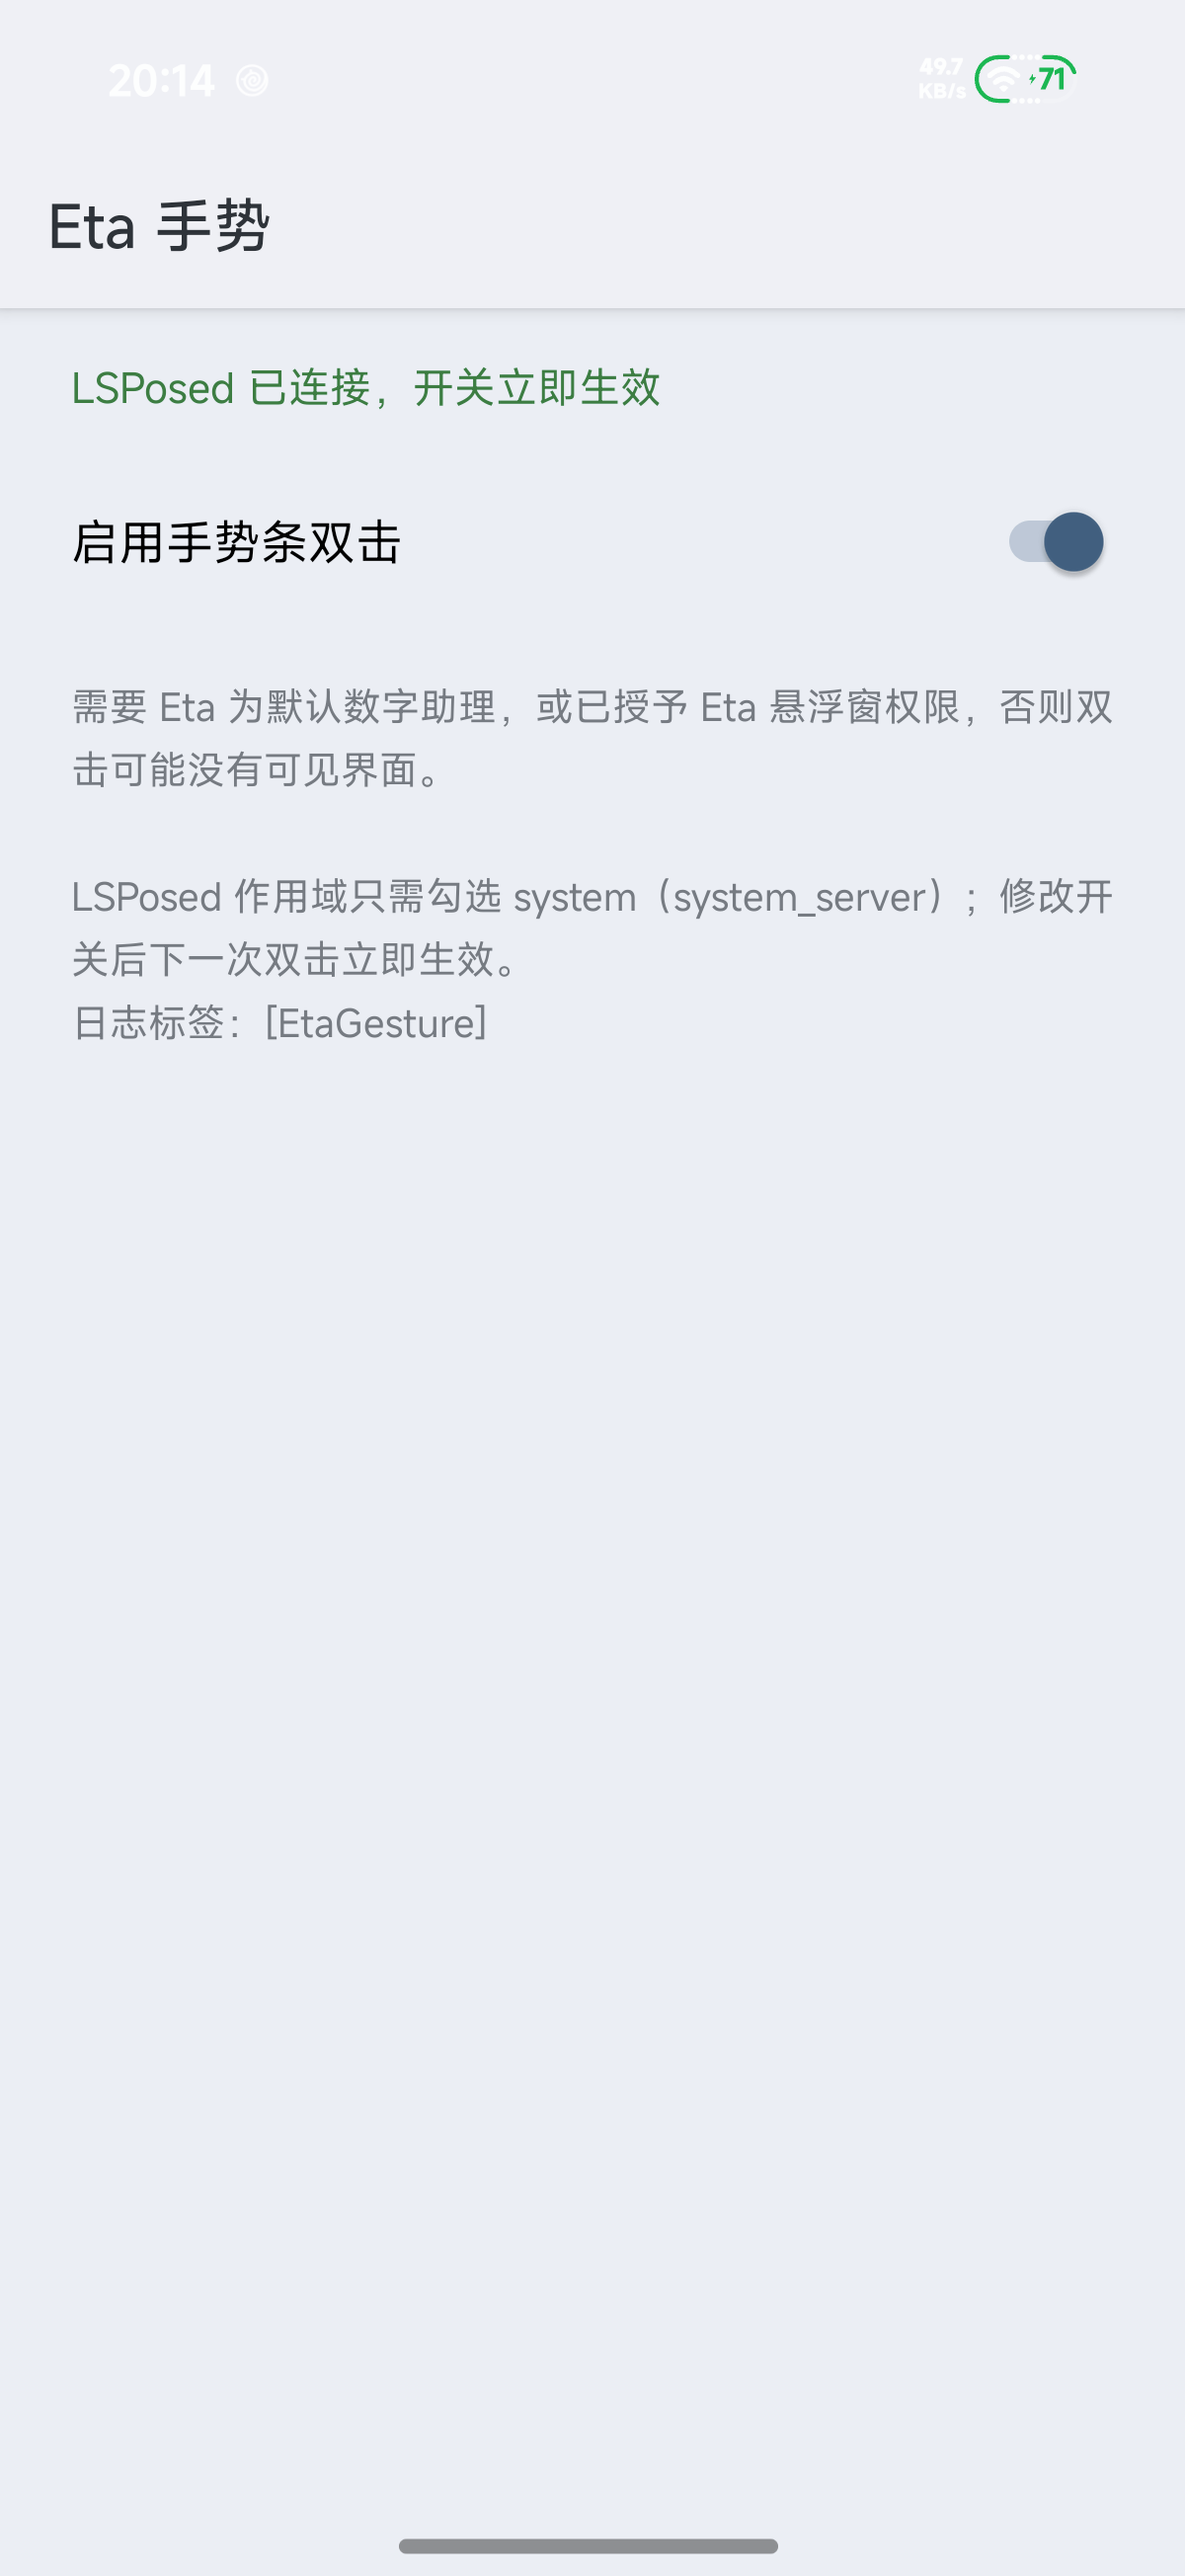
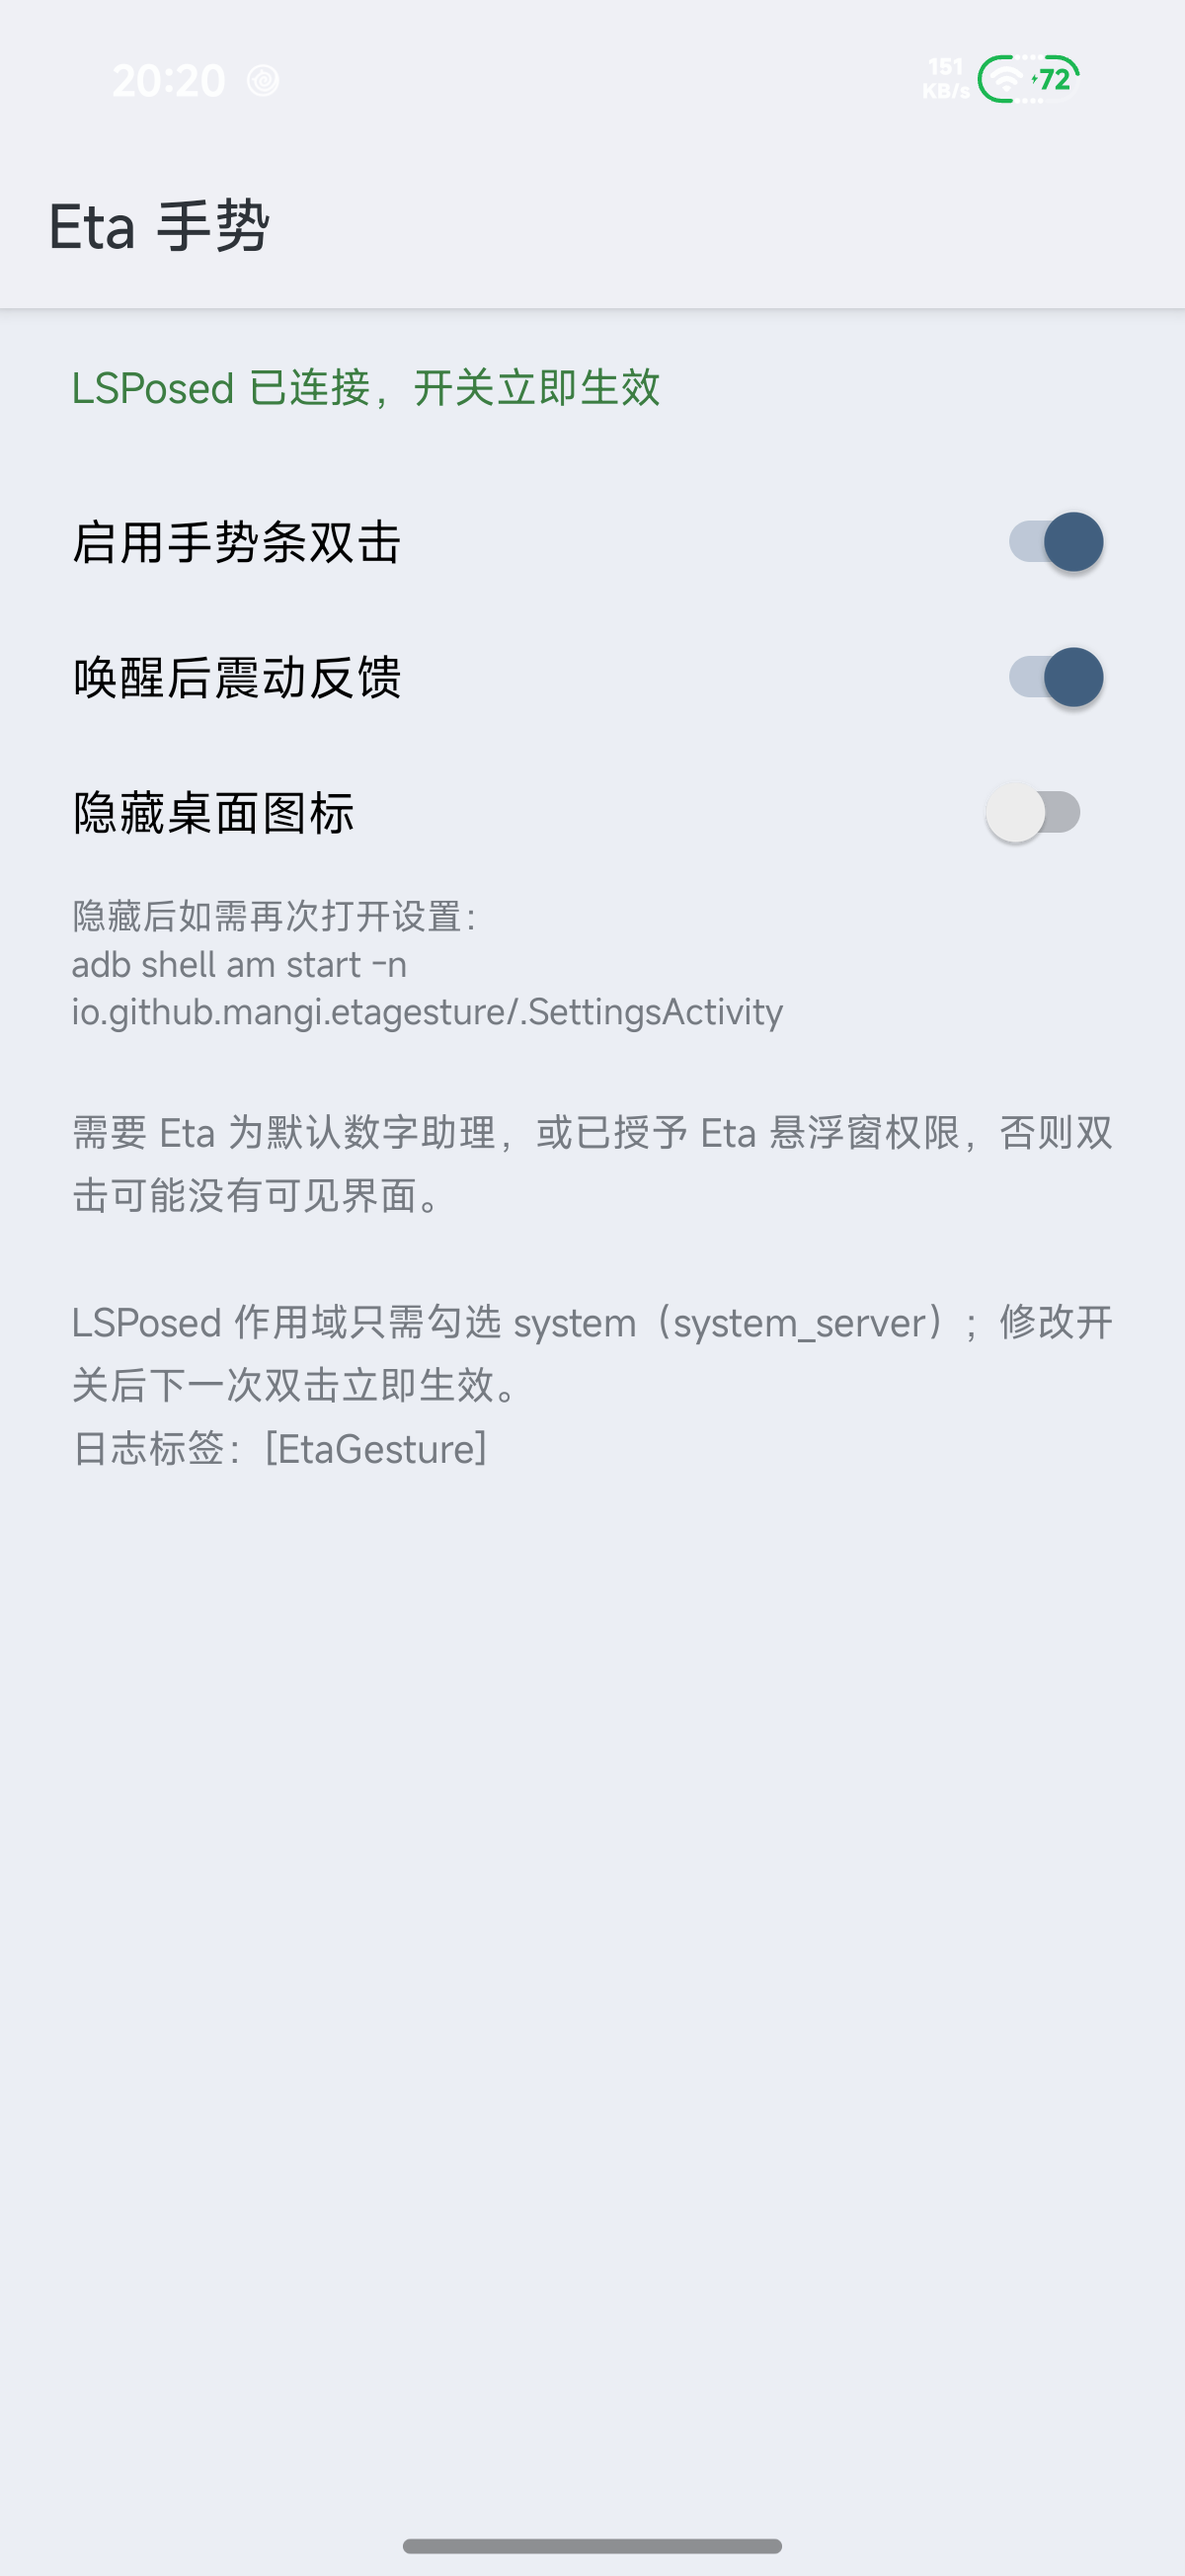
feat: 隐藏桌面图标与唤醒后震动反馈

diff --git a/app/src/main/java/io/github/mangi/etagesture/SettingsActivity.java b/app/src/main/java/io/github/mangi/etagesture/SettingsActivity.java
@@ -1,7 +1,10 @@
 package io.github.mangi.etagesture;
 
 import android.app.Activity;
+import android.app.AlertDialog;
+import android.content.ComponentName;
 import android.content.SharedPreferences;
+import android.content.pm.PackageManager;
 import android.graphics.Typeface;
 import android.os.Bundle;
 import android.view.ViewGroup;
@@ -12,12 +15,18 @@ import android.widget.Toast;
 
 import io.github.libxposed.service.XposedService;
 
-/** 模块设置页：只负责开关，写入 RemotePreferences 后 Hook 进程实时读取。 */
+/** 模块设置页：手势开关、震动反馈与隐藏桌面图标。 */
 public final class SettingsActivity extends Activity implements App.ServiceListener {
     private static final int COLOR_CONNECTED = 0xFF1B7F3B;
     private static final int COLOR_DISCONNECTED = 0xFFB3261E;
 
+    private static final String UI_PREFS = "ui";
+    private static final String KEY_HIDE_ICON = "hide_icon";
+    private static final String ALIAS_SUFFIX = ".SettingsAlias";
+
     private Switch toggle;
+    private Switch vibrateToggle;
+    private Switch hideIconToggle;
     private TextView status;
     private SharedPreferences remotePreferences;
     private boolean updating;
@@ -26,6 +35,7 @@ public final class SettingsActivity extends Activity implements App.ServiceListe
     protected void onCreate(Bundle savedInstanceState) {
         super.onCreate(savedInstanceState);
         setContentView(buildContent());
+        applyStoredIconState();
     }
 
     @Override
@@ -68,12 +78,34 @@ public final class SettingsActivity extends Activity implements App.ServiceListe
         status.setPadding(0, 0, 0, dp(20));
         root.addView(status, matchWidth());
 
-        toggle = new Switch(this);
-        toggle.setText(R.string.settings_toggle);
-        toggle.setTextSize(16);
-        toggle.setPadding(0, dp(12), 0, dp(12));
-        toggle.setOnCheckedChangeListener((buttonView, isChecked) -> writeEnabled(isChecked));
-        root.addView(toggle, matchWidth());
+        toggle = addSwitch(root, R.string.settings_toggle, (buttonView, isChecked) -> {
+            if (!updating) {
+                writeRemoteBoolean(Constants.KEY_ENABLED, isChecked);
+            }
+        });
+
+        vibrateToggle = addSwitch(root, R.string.settings_vibrate, (buttonView, isChecked) -> {
+            if (!updating) {
+                writeRemoteBoolean(Constants.KEY_VIBRATE, isChecked);
+            }
+        });
+
+        hideIconToggle = addSwitch(root, R.string.settings_hide_icon, (buttonView, isChecked) -> {
+            if (updating) {
+                return;
+            }
+            if (isChecked) {
+                confirmHideIcon();
+            } else {
+                setIconHidden(false);
+            }
+        });
+
+        TextView hideHint = new TextView(this);
+        hideHint.setText(R.string.settings_hide_icon_summary);
+        hideHint.setTextSize(12);
+        hideHint.setPadding(0, dp(4), 0, 0);
+        root.addView(hideHint, matchWidth());
 
         TextView hint = new TextView(this);
         hint.setText(R.string.settings_hint);
@@ -83,6 +115,16 @@ public final class SettingsActivity extends Activity implements App.ServiceListe
         root.addView(hint, matchWidth());
 
         return root;
+    }
+
+    private Switch addSwitch(LinearLayout root, int textRes, CompoundButtonListener listener) {
+        Switch item = new Switch(this);
+        item.setText(textRes);
+        item.setTextSize(16);
+        item.setPadding(0, dp(12), 0, dp(12));
+        item.setOnCheckedChangeListener(listener::onCheckedChanged);
+        root.addView(item, matchWidth());
+        return item;
     }
 
     private void refresh() {
@@ -98,9 +140,12 @@ public final class SettingsActivity extends Activity implements App.ServiceListe
         remotePreferences = preferences;
         boolean connected = preferences != null;
         boolean enabled = !connected || preferences.getBoolean(Constants.KEY_ENABLED, true);
+        boolean vibrate = !connected || preferences.getBoolean(Constants.KEY_VIBRATE, true);
         updating = true;
         toggle.setEnabled(connected);
         toggle.setChecked(connected && enabled);
+        vibrateToggle.setEnabled(connected);
+        vibrateToggle.setChecked(connected && vibrate);
         updating = false;
         status.setText(connected
                 ? R.string.settings_status_connected
@@ -108,25 +153,79 @@ public final class SettingsActivity extends Activity implements App.ServiceListe
         status.setTextColor(connected ? COLOR_CONNECTED : COLOR_DISCONNECTED);
     }
 
-    private void writeEnabled(boolean enabled) {
-        if (updating) {
-            return;
-        }
+    private void writeRemoteBoolean(String key, boolean value) {
         SharedPreferences preferences = remotePreferences;
         if (preferences == null) {
             return;
         }
         boolean committed;
         try {
-            committed = preferences.edit()
-                    .putBoolean(Constants.KEY_ENABLED, enabled)
-                    .commit();
+            committed = preferences.edit().putBoolean(key, value).commit();
         } catch (Throwable throwable) {
             committed = false;
         }
         if (!committed) {
             Toast.makeText(this, R.string.settings_write_failed, Toast.LENGTH_SHORT).show();
             refresh();
+        }
+    }
+
+    private void confirmHideIcon() {
+        new AlertDialog.Builder(this)
+                .setTitle(R.string.hide_icon_confirm_title)
+                .setMessage(R.string.hide_icon_confirm_message)
+                .setPositiveButton(android.R.string.ok, (dialog, which) -> setIconHidden(true))
+                .setNegativeButton(android.R.string.cancel, (dialog, which) -> resetHideSwitch())
+                .setOnCancelListener(dialog -> resetHideSwitch())
+                .show();
+    }
+
+    private void resetHideSwitch() {
+        updating = true;
+        hideIconToggle.setChecked(false);
+        updating = false;
+    }
+
+    private void setIconHidden(boolean hidden) {
+        try {
+            ComponentName alias = new ComponentName(this, getPackageName() + ALIAS_SUFFIX);
+            int state = hidden
+                    ? PackageManager.COMPONENT_ENABLED_STATE_DISABLED
+                    : PackageManager.COMPONENT_ENABLED_STATE_ENABLED;
+            getPackageManager().setComponentEnabledSetting(
+                    alias, state, PackageManager.DONT_KILL_APP);
+            getSharedPreferences(UI_PREFS, MODE_PRIVATE)
+                    .edit()
+                    .putBoolean(KEY_HIDE_ICON, hidden)
+                    .apply();
+            updating = true;
+            hideIconToggle.setChecked(hidden);
+            updating = false;
+            if (hidden) {
+                Toast.makeText(this, R.string.hidden_toast, Toast.LENGTH_LONG).show();
+            }
+        } catch (Throwable throwable) {
+            Toast.makeText(this, R.string.settings_write_failed, Toast.LENGTH_SHORT).show();
+            resetHideSwitch();
+        }
+    }
+
+    private void applyStoredIconState() {
+        boolean hidden = getSharedPreferences(UI_PREFS, MODE_PRIVATE)
+                .getBoolean(KEY_HIDE_ICON, false);
+        updating = true;
+        hideIconToggle.setChecked(hidden);
+        updating = false;
+        if (hidden) {
+            try {
+                ComponentName alias = new ComponentName(this, getPackageName() + ALIAS_SUFFIX);
+                getPackageManager().setComponentEnabledSetting(
+                        alias,
+                        PackageManager.COMPONENT_ENABLED_STATE_DISABLED,
+                        PackageManager.DONT_KILL_APP);
+            } catch (Throwable ignored) {
+                // 状态同步失败时保持现有图标状态。
+            }
         }
     }
 
@@ -138,5 +237,9 @@ public final class SettingsActivity extends Activity implements App.ServiceListe
 
     private int dp(int value) {
         return Math.round(value * getResources().getDisplayMetrics().density);
+    }
+
+    private interface CompoundButtonListener {
+        void onCheckedChanged(android.widget.CompoundButton buttonView, boolean isChecked);
     }
 }

diff --git a/app/src/main/java/io/github/mangi/etagesture/EtaWake.java b/app/src/main/java/io/github/mangi/etagesture/EtaWake.java
@@ -4,6 +4,9 @@ import android.content.Context;
 import android.content.Intent;
 import android.os.Bundle;
 import android.os.IBinder;
+import android.os.VibrationEffect;
+import android.os.Vibrator;
+import android.os.VibratorManager;
 import android.service.voice.VoiceInteractionSession;
 import android.util.Log;
 
@@ -18,17 +21,20 @@ import io.github.libxposed.api.XposedModule;
  * 首选与长按电源键完全相同的路径：通过 `voiceinteraction` Binder 调
  * `showSessionForActiveService`，由系统直接显示 Eta 的助理会话；
  * 失败时回退为启动 Eta 的 ASSIST 桥接 Activity。system_server 的启动不受
- * 第三方应用后台启动限制影响。
+ * 第三方应用后台启动限制影响。唤醒成功后按开关短震一次作为反馈。
  */
 final class EtaWake {
     private EtaWake() {
     }
 
-    static void launch(Context context, XposedModule module) {
-        if (showAssistantSession(module)) {
-            return;
+    static void launch(Context context, XposedModule module, boolean vibrate) {
+        boolean shown = showAssistantSession(module);
+        if (!shown) {
+            shown = startAssistActivity(context, module);
         }
-        startAssistActivity(context, module);
+        if (shown && vibrate) {
+            vibrate(context, module);
+        }
     }
 
     private static boolean showAssistantSession(XposedModule module) {
@@ -88,7 +94,7 @@ final class EtaWake {
         }
     }
 
-    private static void startAssistActivity(Context context, XposedModule module) {
+    private static boolean startAssistActivity(Context context, XposedModule module) {
         try {
             Intent intent = new Intent(Intent.ACTION_ASSIST)
                     .setClassName(Constants.ETA_PACKAGE, Constants.ETA_ASSIST_ACTIVITY)
@@ -96,8 +102,26 @@ final class EtaWake {
                             | Intent.FLAG_ACTIVITY_NO_ANIMATION);
             context.startActivity(intent);
             log(module, "已启动 Eta ASSIST 桥接 Activity", null);
+            return true;
         } catch (Throwable t) {
             log(module, "启动 Eta 助手失败（确认 Eta 已安装）", t);
+            return false;
+        }
+    }
+
+    /** 唤醒成功后的轻触反馈；震动不可用时只记录日志。 */
+    private static void vibrate(Context context, XposedModule module) {
+        try {
+            VibratorManager manager = context.getSystemService(VibratorManager.class);
+            Vibrator vibrator = manager != null
+                    ? manager.getDefaultVibrator()
+                    : context.getSystemService(Vibrator.class);
+            if (vibrator == null || !vibrator.hasVibrator()) {
+                return;
+            }
+            vibrator.vibrate(VibrationEffect.createPredefined(VibrationEffect.EFFECT_CLICK));
+        } catch (Throwable t) {
+            log(module, "震动反馈失败", t);
         }
     }
 

diff --git a/app/src/main/java/io/github/mangi/etagesture/GestureBarHook.java b/app/src/main/java/io/github/mangi/etagesture/GestureBarHook.java
@@ -174,7 +174,9 @@ public final class GestureBarHook {
                 lastTriggerUptime = now;
                 log(module, "手势条双击，唤出 Eta 助手浮窗", null);
                 Context launchContext = current;
-                MAIN.post(() -> EtaWake.launch(launchContext, module));
+                boolean vibrate = preferences == null
+                        || preferences.getBoolean(Constants.KEY_VIBRATE, true);
+                MAIN.post(() -> EtaWake.launch(launchContext, module, vibrate));
             }
         }
 

diff --git a/app/src/main/java/io/github/mangi/etagesture/Constants.java b/app/src/main/java/io/github/mangi/etagesture/Constants.java
@@ -13,6 +13,9 @@ public final class Constants {
     /** 双击手势条开关。 */
     public static final String KEY_ENABLED = "enabled";
 
+    /** 唤醒成功后的震动反馈开关。 */
+    public static final String KEY_VIBRATE = "vibrate";
+
     public static final String SYSTEM_UI_PACKAGE = "com.android.systemui";
 
     public static final String ETA_PACKAGE = "io.github.mangi.eta";

diff --git a/README.md b/README.md
@@ -10,10 +10,12 @@
 
 ## 功能
 
-- 在 SystemUI 进程旁路观察输入事件，只在底部手势条区域识别双击，不消费触摸、不改变系统手势。
+- 在 system_server 进程旁路观察输入事件，只在底部手势条区域识别双击，不消费触摸、不改变系统手势。
 - 判定条件：单指、按下与抬起都在手势条区域、位移不超过触摸阈值、时长不超过长按阈值；第二下与第一下抬手的间隔、两次落点距离受系统双击阈值约束。
 - 三键/双键导航、锁屏、开关关闭时不触发；多指、滑动、取消都会作废当前按压。
 - 识别后先通过 `voiceinteraction` Binder 调 `showSessionForActiveService`，由系统直接显示 Eta 助理会话（与长按电源键一致）；失败时回退向 `io.github.mangi.eta/io.github.mangi.eta.agent.voice.EtaVoiceAssistActivity` 发送 `ACTION_ASSIST`。
+- **唤醒后震动反馈**：会话成功显示或 Activity 启动成功后短震一次，可在设置页关闭。
+- **隐藏桌面图标**：设置页可隐藏/恢复桌面图标，隐藏后双击与模块功能不受影响。
 - 设置页开关实时生效（RemotePreferences），无需重启；日志标签 `[EtaGesture]`。
 
 ## 为什么在 system_server 里做
@@ -54,7 +56,18 @@ system_server 内完成电源键与系统入口接管。
    | `system` | 观察 system_server 手势监视器输入并唤出 Eta 助理会话 |
 
 4. 重启手机
-5. 打开「Eta 手势」确认状态为「LSPosed 已连接」，按需开关
+5. 打开「Eta 手势」确认状态为「LSPosed 已连接」，按需开关双击、震动与桌面图标
+
+### 隐藏桌面图标
+
+设置页打开「隐藏桌面图标」并确认后，桌面图标立即消失（双击手势条与模块功能不受影响）。
+如需再次打开设置，执行：
+
+```text
+adb shell am start -n io.github.mangi.etagesture/.SettingsActivity
+```
+
+设置页里再关闭该开关即可恢复图标；隐藏状态会保存在本机，应用升级后保持。
 
 ## 实机验证
 
@@ -66,6 +79,8 @@ Redmi K90 Pro Max（HyperOS 4 / OS4.0.6.0.XPMCNXM，Android 17）：
 | 双击手势条 | 触发一次，Eta 助手浮窗覆盖当前应用（不切换任务） |
 | 连续多次双击 | 每次双击各触发一次 |
 | 会话路径日志 | `已通过助理会话唤出 Eta` |
+| 震动反馈 | `dumpsys vibrator_manager` 的 Recent vibrations 中每次唤醒都出现 `android (uid=1000) | usage: TOUCH | Prebaked=CLICK` |
+| 隐藏桌面图标 | 隐藏后 `cmd package query-activities` 不再解析到本应用；关闭开关后恢复 |
 
 ![双击唤出 Eta 助手浮窗](docs/overlay.png)
 
